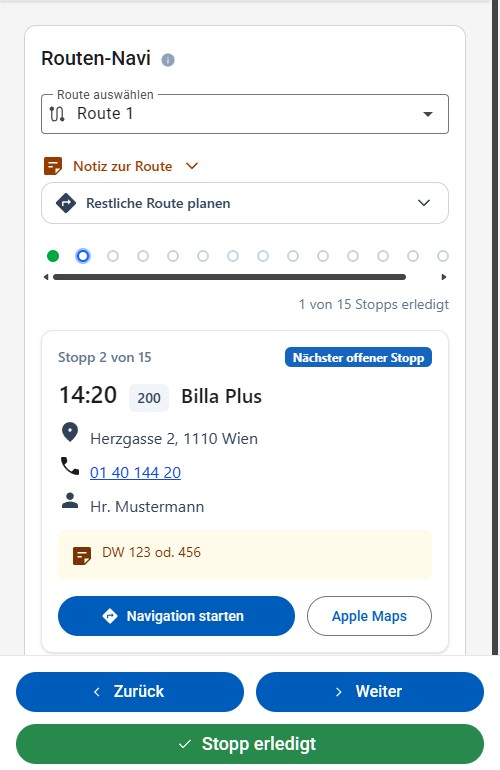
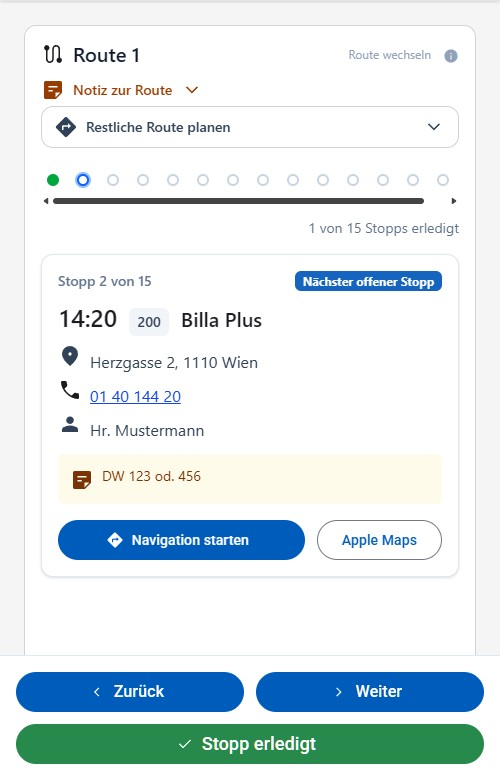
feat(logistics): trim the Routen-Navi screen to fit without scrolling
- Drop the "Routen-Navi" card title - it duplicated the page title the
  shell's own header already shows above it.
- Collapse the route picker into a one-line "Route <name> · Route
  wechseln" summary once its guidance has loaded, since it's only used
  once per drive; reopens on tap, or automatically while nothing is
  loaded (no pick yet, a pick still in flight, or a failed load).
- Give the mat-form-field subscriptSizing="dynamic" so it stops
  reserving hint/error space it never uses.

In the steady state (one route open, note/restliche-route collapsed)
this now fits a 390x844 phone viewport without scrolling; expanding
everything at once (picker reopened, both toggles, a long shop note)
still scrolls, which is expected for that combination.

diff --git a/frontend/src/main/webapp/src/app/modules/logistics/views/route-guidance/route-guidance.component.html b/frontend/src/main/webapp/src/app/modules/logistics/views/route-guidance/route-guidance.component.html
@@ -1,24 +1,34 @@
 <mat-card class="w-full">
-  <mat-card-header class="mb-2">
-    <mat-card-title>
-      <h2 class="tafel-h5 mb-0 mt-1">
-        Routen-Navi
-        <tafel-info-tooltip [text]="infoText" testId="guidance-info-tooltip"></tafel-info-tooltip>
-      </h2>
-    </mat-card-title>
-  </mat-card-header>
   <mat-card-content>
-    <mat-form-field class="w-full max-w-md">
-      <mat-label>Route auswählen</mat-label>
-      <mat-select testid="routeInput" [ngModel]="selectedRoute" (ngModelChange)="onSelectedRouteChange($event)">
-        <mat-option [value]="undefined">Bitte auswählen</mat-option>
-        @for (route of routeList().routes; track route.id) {
-          <mat-option [value]="route" [attr.testid]="'routeInput-option-' + route.id">{{ route.name }}</mat-option>
-        }
-      </mat-select>
-      <mat-icon matPrefix svgIcon="route"
-                class="!flex !items-center !justify-center !leading-none !w-5 !h-5 !p-1.5 text-slate-500"></mat-icon>
-    </mat-form-field>
+    <!-- the page's own title already sits in the app header above this card (TafelTitleStrategy) -
+         repeating "Routen-Navi" here would only cost a line's worth of height for nothing new. -->
+    @if (routePickerOpen()) {
+      <mat-form-field class="w-full max-w-md" subscriptSizing="dynamic">
+        <mat-label>Route auswählen</mat-label>
+        <mat-select testid="routeInput" [ngModel]="selectedRoute" (ngModelChange)="onSelectedRouteChange($event)">
+          <mat-option [value]="undefined">Bitte auswählen</mat-option>
+          @for (route of routeList().routes; track route.id) {
+            <mat-option [value]="route" [attr.testid]="'routeInput-option-' + route.id">{{ route.name }}</mat-option>
+          }
+        </mat-select>
+        <mat-icon matPrefix svgIcon="route"
+                  class="!flex !items-center !justify-center !leading-none !w-5 !h-5 !p-1.5 text-slate-500"></mat-icon>
+        <tafel-info-tooltip matSuffix [text]="infoText" testId="guidance-info-tooltip"></tafel-info-tooltip>
+      </mat-form-field>
+    } @else {
+      <!-- the picker is only ever used once per drive - once a route is loaded, it collapses into
+           this one-line summary instead of permanently costing a whole form field's height at every
+           stop. Tapping it (or clearing the route) brings the picker back. -->
+      <div class="mb-3 flex w-full items-center gap-2">
+        <button type="button" class="flex flex-1 items-center gap-2 text-start" testid="route-picker-summary"
+                (click)="openRoutePicker()">
+          <mat-icon svgIcon="route" class="text-slate-500"></mat-icon>
+          <span class="tafel-h5 mb-0 flex-1 font-medium text-slate-900">{{ selectedRoute?.name }}</span>
+          <span class="text-xs text-slate-600">Route wechseln</span>
+        </button>
+        <tafel-info-tooltip [text]="infoText" testId="guidance-info-tooltip"></tafel-info-tooltip>
+      </div>
+    }
 
     @if (guidance()?.routeNote; as routeNote) {
       <!-- collapsed by default - not every route has a note worth reading before departure, and a

diff --git a/frontend/src/main/webapp/cypress/e2e/route-guidance.cy.ts b/frontend/src/main/webapp/cypress/e2e/route-guidance.cy.ts
@@ -29,6 +29,13 @@ describe('Route Guidance', () => {
   });
 
   function selectRoute(name: string) {
+    // the picker collapses into a one-line summary once a route has loaded (it's only used once
+    // per drive) - reopen it first if a prior selection in this test already collapsed it
+    cy.get('body').then($body => {
+      if ($body.find('[testid="route-picker-summary"]').length > 0) {
+        cy.byTestId('route-picker-summary').click();
+      }
+    });
     cy.byTestId('routeInput').click();
     cy.get('mat-option').contains(name).click();
     cy.byTestId('guidance-stop').should('be.visible');
@@ -237,6 +244,22 @@ describe('Route Guidance', () => {
     cy.byTestId('guidance-route-note').should('not.exist');
   });
 
+  it('collapses the route picker into a summary once loaded, and reopens it to change route', () => {
+    cy.byTestId('routeInput').should('be.visible');
+
+    selectRoute2();
+
+    cy.byTestId('routeInput').should('not.exist');
+    cy.byTestId('route-picker-summary').should('be.visible').and('contain.text', 'Route 2');
+
+    cy.byTestId('route-picker-summary').click();
+    cy.byTestId('routeInput').should('be.visible').and('contain.text', 'Route 2');
+    cy.byTestId('route-picker-summary').should('not.exist');
+
+    // reopened but nothing re-selected yet - still shows the previous route's stop underneath
+    cy.byTestId('guidance-stop').should('be.visible');
+  });
+
   it('pages between stops with a swipe, in addition to the buttons', () => {
     selectRoute2();
 
@@ -295,7 +318,9 @@ describe('Route Guidance', () => {
 
     cy.visit('/logistik/routen-navi');
 
-    cy.byTestId('routeInput').should('contain.text', 'Route 3');
+    // guidance for the remembered route loads without any interaction, so the picker is already
+    // collapsed into its summary by the time the page settles - never the open select itself
+    cy.byTestId('route-picker-summary').should('contain.text', 'Route 3');
     cy.byTestId('guidance-stop').should('be.visible');
   });
 
@@ -376,6 +401,14 @@ describe('Route Guidance', () => {
       selectRoute('Route 1');
       cy.byTestId('guidance-route-note-toggle').click();
       cy.byTestId('guidance-route-note').should('be.visible');
+
+      cy.checkAccessibility(MAIN_CONTENT);
+    });
+
+    it('has no violations with the route picker reopened to change route', () => {
+      selectRoute2();
+      cy.byTestId('route-picker-summary').click();
+      cy.byTestId('routeInput').should('be.visible');
 
       cy.checkAccessibility(MAIN_CONTENT);
     });

diff --git a/frontend/src/main/webapp/src/app/modules/logistics/views/route-guidance/route-guidance.component.spec.ts b/frontend/src/main/webapp/src/app/modules/logistics/views/route-guidance/route-guidance.component.spec.ts
@@ -761,6 +761,55 @@ describe('RouteGuidanceComponent', () => {
     });
   });
 
+  describe('route picker (collapses once used)', () => {
+    it('starts open and collapses once the route guidance has loaded', () => {
+      const fixture = createComponent();
+      const component = fixture.componentInstance;
+      expect(component['routePickerOpen']()).toBe(true);
+
+      component['onSelectedRouteChange'](testRoute);
+      expect(component['routePickerOpen']()).toBe(false);
+    });
+
+    it('stays open while a pick is still loading, and while the load has failed', () => {
+      const guidance$ = new Subject<RouteGuidanceData>();
+      routeApiMock.getRouteGuidance = vi.fn(() => guidance$.asObservable());
+      const fixture = createComponent();
+      const component = fixture.componentInstance;
+
+      component['onSelectedRouteChange'](testRoute);
+      expect(component['routePickerOpen']()).toBe(true);
+
+      routeApiMock.getRouteGuidance = vi.fn(() => throwError(() => new Error('failed')));
+      component['onSelectedRouteChange'](otherRoute);
+      expect(component['routePickerOpen']()).toBe(true);
+    });
+
+    it('reopens via openRoutePicker and closes again once the next route loads', () => {
+      const fixture = createComponent();
+      const component = fixture.componentInstance;
+      component['onSelectedRouteChange'](testRoute);
+      expect(component['routePickerOpen']()).toBe(false);
+
+      component['openRoutePicker']();
+      expect(component['routePickerOpen']()).toBe(true);
+
+      component['onSelectedRouteChange'](otherRoute);
+      expect(component['routePickerOpen']()).toBe(false);
+    });
+
+    it('reopens when the selection is cleared', () => {
+      const fixture = createComponent();
+      const component = fixture.componentInstance;
+      component['onSelectedRouteChange'](testRoute);
+      expect(component['routePickerOpen']()).toBe(false);
+
+      component['onSelectedRouteChange'](undefined);
+
+      expect(component['routePickerOpen']()).toBe(true);
+    });
+  });
+
   describe('route note', () => {
     it('starts collapsed and toggles open', () => {
       routeApiMock.getRouteGuidance = vi.fn(() => of<RouteGuidanceData>({...guidance, routeNote: 'Schlüssel abholen'}));

diff --git a/frontend/src/main/webapp/src/app/modules/logistics/views/route-guidance/route-guidance.component.ts b/frontend/src/main/webapp/src/app/modules/logistics/views/route-guidance/route-guidance.component.ts
@@ -136,6 +136,16 @@ export class RouteGuidanceComponent {
 
   private readonly _guidance = signal<RouteGuidanceData | undefined>(undefined);
   protected readonly guidance = this._guidance.asReadonly();
+
+  // The picker is only ever used once per drive, so it collapses into a one-line summary as soon as
+  // a route's guidance has actually loaded - open again while there is nothing loaded yet (no route
+  // picked, or a pick still in flight/failed) or while explicitly reopened via openRoutePicker().
+  private readonly routePickerManuallyOpened = signal(false);
+  protected readonly routePickerOpen = computed(() => !this.guidance() || this.routePickerManuallyOpened());
+
+  protected openRoutePicker() {
+    this.routePickerManuallyOpened.set(true);
+  }
   // the stop whose request is still on its way (online only - an offline tick is applied locally
   // right away), so its buttons can't be pressed twice
   protected readonly pendingStopId = signal<number | undefined>(undefined);
@@ -333,6 +343,7 @@ export class RouteGuidanceComponent {
     this.selectedRoute = route;
     this._guidance.set(undefined);
     this.persistSelectedRouteId(route?.id);
+    this.routePickerManuallyOpened.set(false);
     void this.wakeLockService.release();
     if (!route) {
       return;

diff --git a/docs/userguide/logistik.md b/docs/userguide/logistik.md
@@ -8,13 +8,13 @@ Der Bereich "Logistik" begleitet die Routen-Teams: das **Routen-Navi** unterwegs
 
 ## Routen-Navi
 
-Unter **Logistik → Routen-Navi** wird über das Dropdown **Route auswählen** eine der aktiven Routen aus [Einstellungen → Routen](einstellungen.md#routen) gewählt; die zuletzt gewählte Route wird sich für dieses Gerät gemerkt und beim nächsten Aufruf gleich wieder vorausgewählt. Trägt die Route selbst eine Notiz (z. B. einen Hinweis zur Abfahrt), erscheint direkt darunter der eingeklappte Knopf **Notiz zur Route** — ein Antippen blendet sie ein; ohne Notiz erscheint auch kein Knopf. Sie ist bewusst nicht dauerhaft sichtbar, da nicht jede Route eine braucht und sie sonst dem eigentlichen Stopp im Weg stünde.
+Unter **Logistik → Routen-Navi** wird über das Dropdown **Route auswählen** eine der aktiven Routen aus [Einstellungen → Routen](einstellungen.md#routen) gewählt; die zuletzt gewählte Route wird sich für dieses Gerät gemerkt und beim nächsten Aufruf gleich wieder vorausgewählt. Sobald eine Route geladen ist, klappt die Auswahl zu einer einzeiligen Zusammenfassung mit Routenname und **Route wechseln** zusammen — sie wird ja nur einmal zu Beginn der Fahrt gebraucht; ein Antippen öffnet die Auswahl erneut. Trägt die Route selbst eine Notiz (z. B. einen Hinweis zur Abfahrt), erscheint direkt darunter der eingeklappte Knopf **Notiz zur Route** — ein Antippen blendet sie ein; ohne Notiz erscheint auch kein Knopf. Sie ist bewusst nicht dauerhaft sichtbar, da nicht jede Route eine braucht und sie sonst dem eigentlichen Stopp im Weg stünde.
 
 Anschließend wird immer **ein Stopp** der Route angezeigt — die Seite wird am Steuer auf dem Handy gelesen, eine lange Liste wäre dort die falsche Darstellung. Die Reihenfolge ist die, in der die Stopps angefahren werden (nach der bei der Route hinterlegten Uhrzeit); beim Öffnen steht die Seite gleich beim ersten noch offenen Stopp. Über dem Stopp steht, der wievielte von wie vielen gerade angezeigt wird; eine Reihe von Punkten darüber zeigt zusätzlich auf einen Blick, welche Stopps schon erledigt, welcher gerade angezeigt und welche noch offen sind — durch Antippen eines Punkts wird direkt zu diesem Stopp gesprungen.
 
 **Zurück** und **Weiter** zeigen nur den vorherigen bzw. nächsten Stopp an und verändern dabei nichts — ein Stopp kann also jederzeit noch einmal angesehen werden (etwa um einen Türcode nachzulesen), ohne den erfassten Fortschritt zu gefährden. Auf dem Handy blättert ein Wischen nach links bzw. rechts auf dem Stopp genauso weiter, als Abkürzung für dieselben zwei Knöpfe. Abgehakt wird über den eigenen, großen Knopf **Stopp erledigt** unterhalb der beiden Blätter-Knöpfe — er bezieht sich immer auf den gerade angezeigten Stopp und springt danach automatisch zum nächsten Stopp weiter, damit eine Route ohne zusätzliches Blättern nacheinander abgearbeitet werden kann. Ist ein Stopp bereits erledigt, steht an seiner Stelle **Rückgängig machen**, um das Abhaken für genau diesen Stopp wieder zurückzunehmen — das ist eine Korrektur und blättert daher nicht weiter, anders als **Stopp erledigt**. Dieser Knopf bleibt beim Scrollen am unteren Bildschirmrand sichtbar, da er der Knopf ist, der unterwegs an jedem Stopp gedrückt wird.
 
-Je Stopp werden angezeigt: Uhrzeit, Filialnummer und Name der Filiale, Adresse, Telefonnummer (per Klick direkt wählbar), Ansprechperson sowie eine allfällige Notiz zur Filiale. Stopps ohne Filiale — etwa eine Pause — bleiben erhalten und werden mit ihrer Beschreibung angezeigt. Der erste noch offene Stopp ist mit **Nächster offener Stopp** gekennzeichnet, ein bereits abgehakter mit **Erledigt**. Das **i-Symbol** neben der Überschrift blendet eine Kurzanleitung ein.
+Je Stopp werden angezeigt: Uhrzeit, Filialnummer und Name der Filiale, Adresse, Telefonnummer (per Klick direkt wählbar), Ansprechperson sowie eine allfällige Notiz zur Filiale. Stopps ohne Filiale — etwa eine Pause — bleiben erhalten und werden mit ihrer Beschreibung angezeigt. Der erste noch offene Stopp ist mit **Nächster offener Stopp** gekennzeichnet, ein bereits abgehakter mit **Erledigt**. Das **i-Symbol** neben der Routenauswahl blendet eine Kurzanleitung ein.
 
 Die Abbildung zeigt die Seite so, wie sie unterwegs tatsächlich verwendet wird: am Handy (siehe auch [Darstellung auf schmalen Bildschirmen](README.md#darstellung-auf-schmalen-bildschirmen)). Am Computer ist es dieselbe Seite, nur breiter.
 

diff --git a/CHANGELOG.md b/CHANGELOG.md
@@ -7,6 +7,7 @@ Jeder Eintrag ist eine einzelne, nicht umgebrochene Zeile, die mit `- ` beginnt 
 ## [Unreleased]
 - Das Routen-Navi bietet bei mehr als zehn offenen Stopps jetzt mehrere Karten-Links zu je zehn Stopps an, statt die restliche Route nur bis zum zehnten Stopp abzudecken, und öffnet die Navigation zu einer Filiale wahlweise auch in Apple Maps.
 - Das Routen-Navi lässt sich am Handy jetzt auch durch Wischen nach links/rechts zwischen Stopps blättern, und eine Routennotiz sowie die Karten-Links für die restliche Route werden erst nach Antippen eingeblendet, statt den aktuellen Stopp dauerhaft zu verdrängen.
+- Die Routenauswahl im Routen-Navi klappt jetzt zu einer einzeiligen Zusammenfassung zusammen, sobald eine Route geladen ist, statt dauerhaft die volle Auswahlbox anzuzeigen.
 
 ## [1.16.2] - 2026-09-02
 - Ein aus dem Scanner-Ordner importiertes Dokument verschwindet jetzt sofort aus der Dateiliste, statt erst beim nächsten Aktualisierungsintervall.
